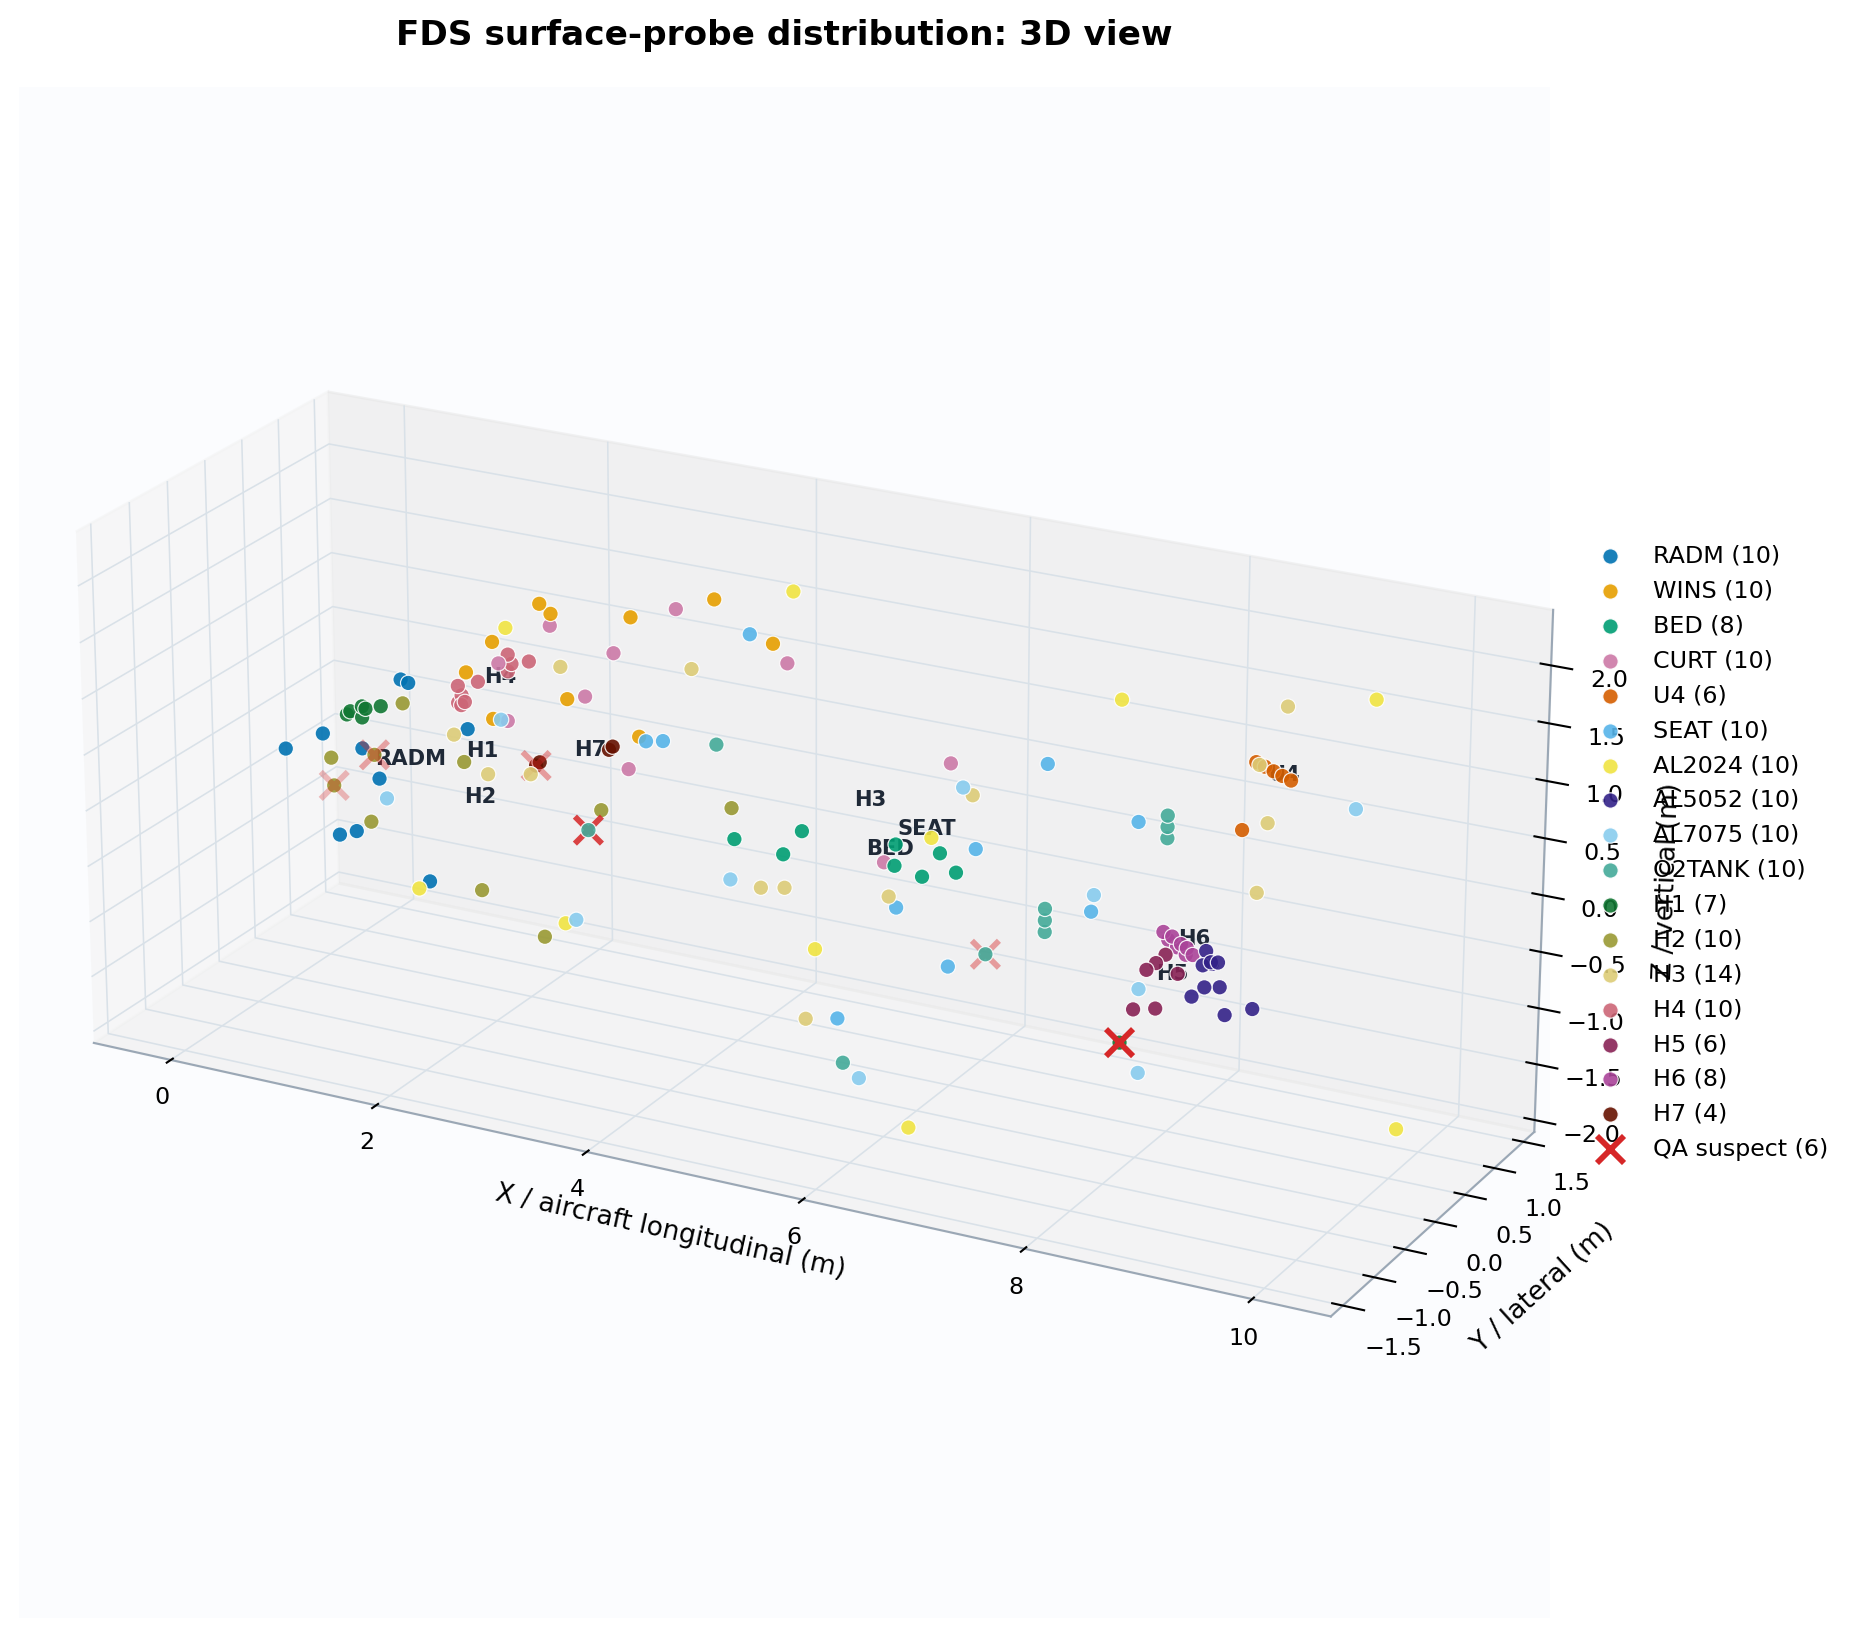
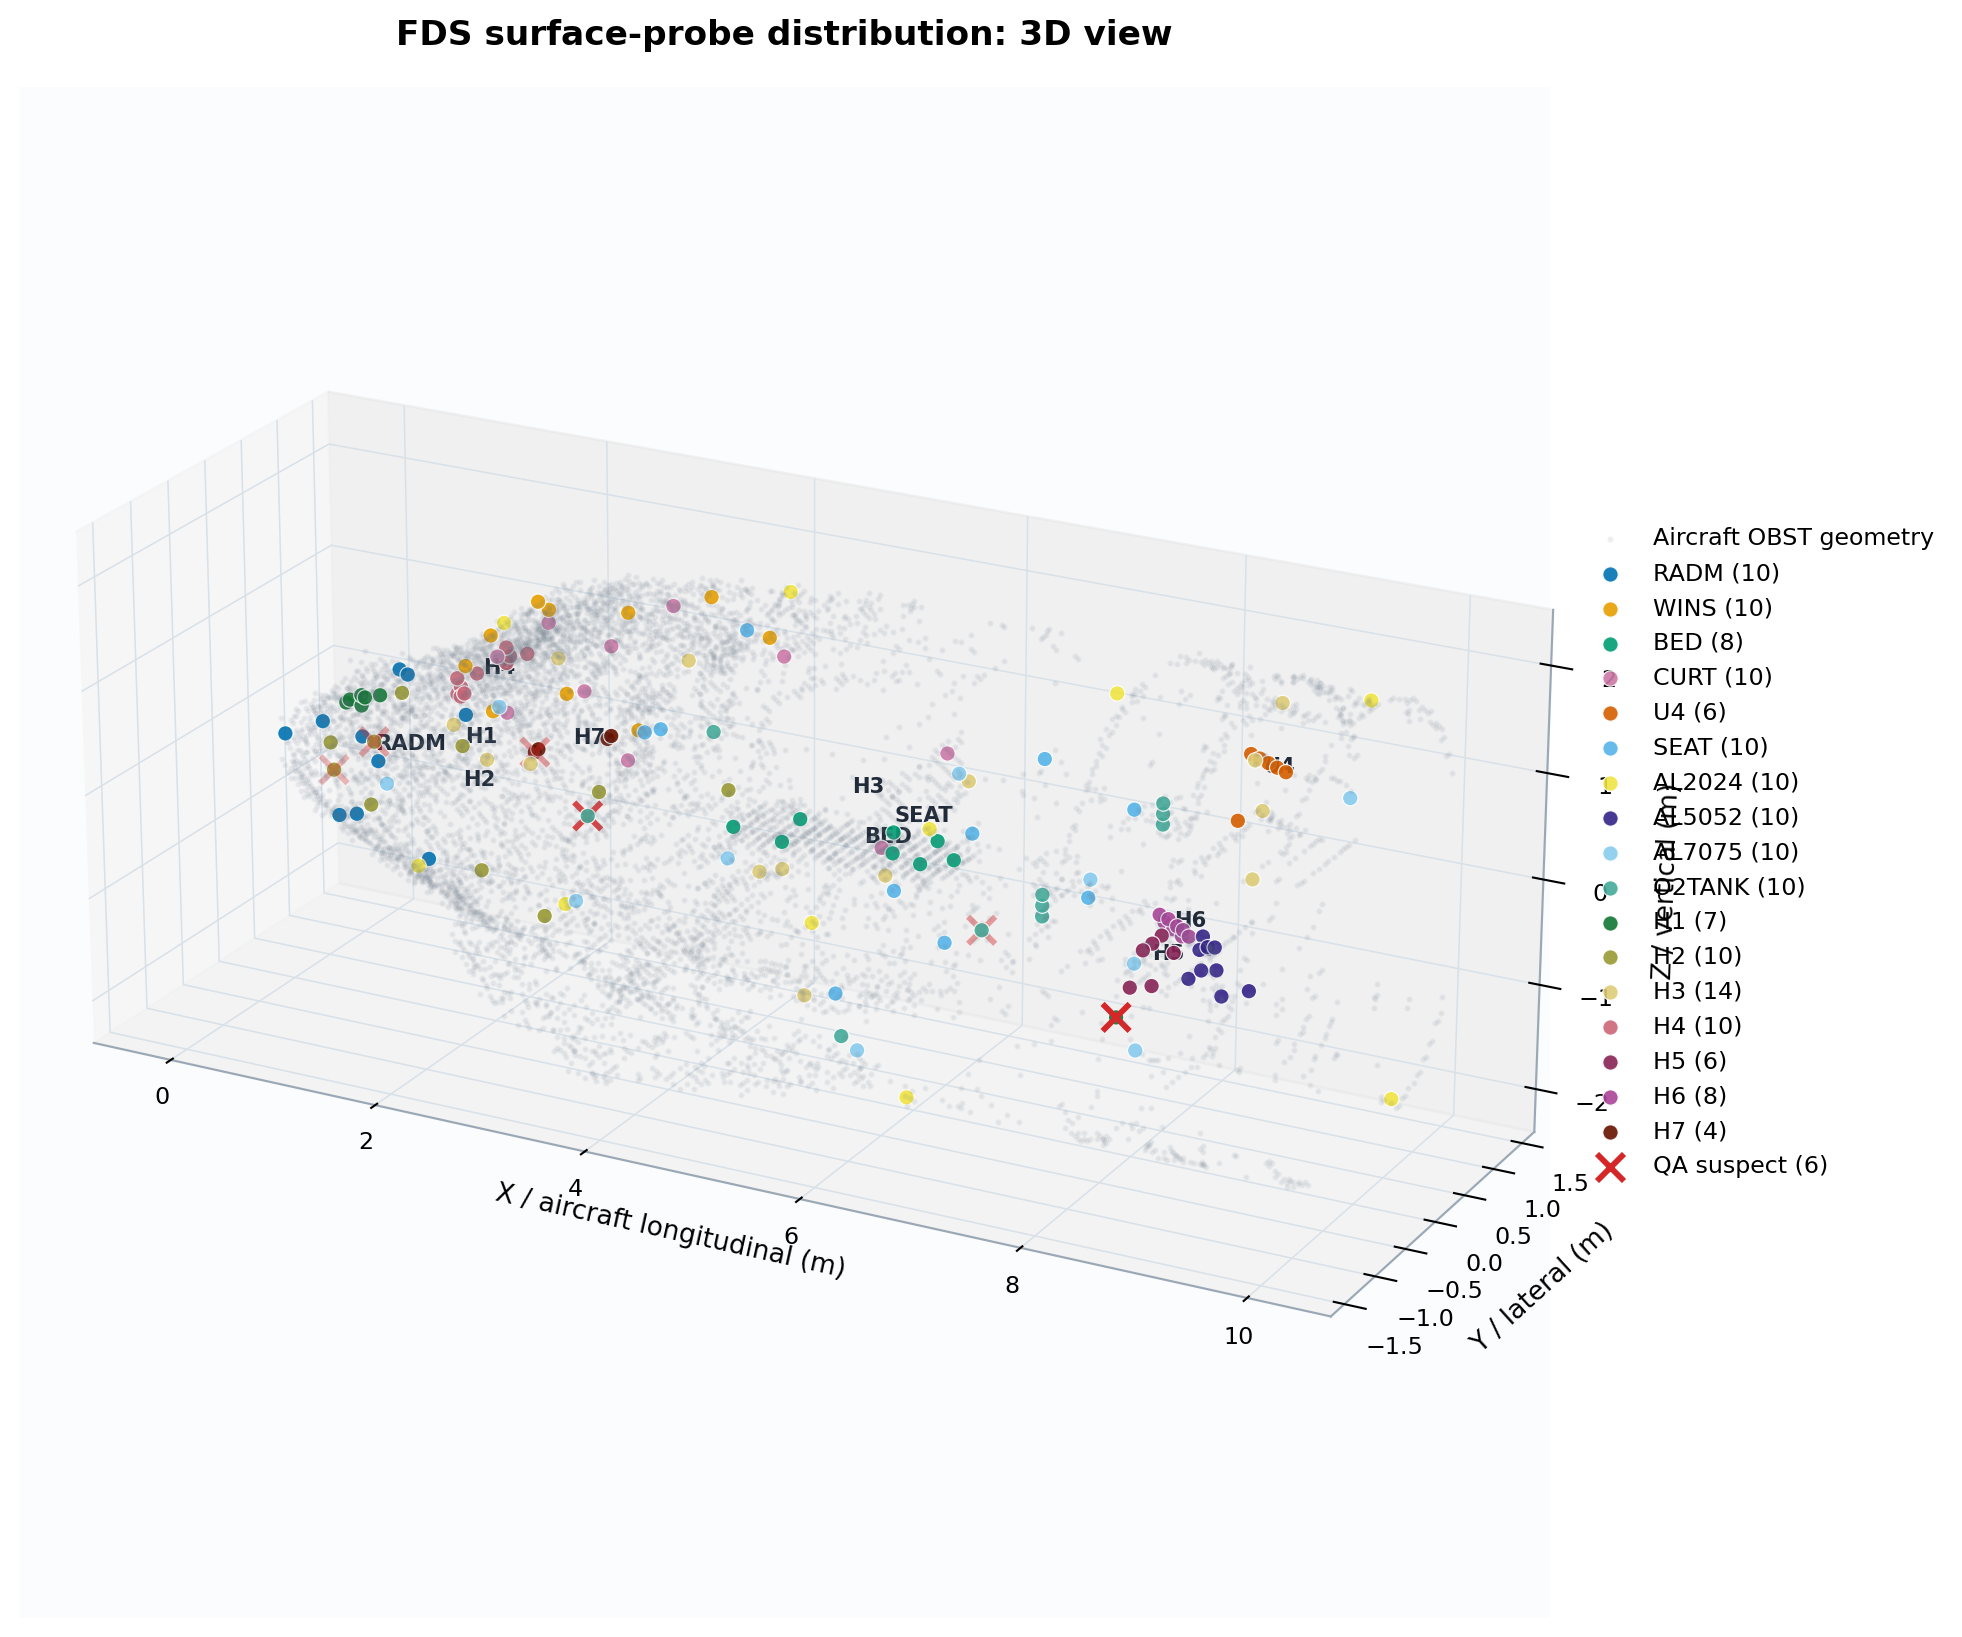
Overlay aircraft geometry on probe visualizations

diff --git a/src/validate_and_plot_probe_distribution.py b/src/validate_and_plot_probe_distribution.py
@@ -162,7 +162,24 @@ def close_xyz(a, b, tol=5.1e-4) -> bool:
     return max(abs(float(x) - float(y)) for x, y in zip(a, b)) <= tol
 
 
-def validate(case_dir: Path) -> tuple[dict, list[dict]]:
+def geometry_cloud(obstacles: list[dict], limit: int = 8000) -> list[list[float]]:
+    """Create a deterministic OBST-derived point cloud for spatial context."""
+    cloud = set()
+    for obstacle in obstacles:
+        x0, x1, y0, y1, z0, z1 = obstacle["xb"]
+        cloud.add((round((x0 + x1) / 2, 4), round((y0 + y1) / 2, 4), round((z0 + z1) / 2, 4)))
+        for x in (x0, x1):
+            for y in (y0, y1):
+                for z in (z0, z1):
+                    cloud.add((round(x, 4), round(y, 4), round(z, 4)))
+    points = sorted(cloud)
+    if len(points) > limit:
+        indices = np.linspace(0, len(points) - 1, limit, dtype=int)
+        points = [points[index] for index in indices]
+    return [list(point) for point in points]
+
+
+def validate(case_dir: Path) -> tuple[dict, list[dict], list[list[float]]]:
     registry_path = case_dir / "monitor_registry.json"
     flux_path = case_dir / "flux_faces.csv"
     fds_files = sorted(case_dir.glob("*.fds"))
@@ -270,7 +287,7 @@ def validate(case_dir: Path) -> tuple[dict, list[dict]]:
             "it is not a mathematical maximum over every surface cell."
         ),
     }
-    return validation, points
+    return validation, points, geometry_cloud(obstacles)
 
 
 def setup_plot_style():
@@ -283,10 +300,13 @@ def setup_plot_style():
     })
 
 
-def plot_3d(points: list[dict], out: Path):
+def plot_3d(points: list[dict], aircraft: list[list[float]], out: Path):
     setup_plot_style()
     fig = plt.figure(figsize=(15, 8.5), constrained_layout=True)
     ax = fig.add_subplot(111, projection="3d")
+    body = np.asarray(aircraft)
+    ax.scatter(body[:, 0], body[:, 1], body[:, 2], s=2.0, alpha=0.075,
+               color="#657484", depthshade=False, label="Aircraft OBST geometry")
     groups = list(dict.fromkeys(p["group"] for p in points))
     for idx, group in enumerate(groups):
         pts = np.array([p["xyz"] for p in points if p["group"] == group])
@@ -312,9 +332,13 @@ def plot_3d(points: list[dict], out: Path):
     plt.close(fig)
 
 
-def plot_2d(points: list[dict], out: Path):
+def plot_2d(points: list[dict], aircraft: list[list[float]], out: Path):
     setup_plot_style()
     fig, axes = plt.subplots(2, 1, figsize=(15, 9.5), constrained_layout=True)
+    body = np.asarray(aircraft)
+    axes[0].scatter(body[:, 0], body[:, 2], s=3.5, color="#657484", alpha=0.065,
+                    linewidth=0, label="Aircraft OBST geometry")
+    axes[1].scatter(body[:, 0], body[:, 1], s=3.5, color="#657484", alpha=0.065, linewidth=0)
     groups = list(dict.fromkeys(p["group"] for p in points))
     for idx, group in enumerate(groups):
         pts = np.array([p["xyz"] for p in points if p["group"] == group])
@@ -402,10 +426,10 @@ def write_markdown(validation: dict, path: Path):
     path.write_text("\n".join(lines) + "\n", encoding="utf-8")
 
 
-def write_inline_html(points: list[dict], validation: dict, path: Path):
+def write_inline_html(points: list[dict], aircraft: list[list[float]], validation: dict, path: Path):
     path.parent.mkdir(parents=True, exist_ok=True)
     groups = list(dict.fromkeys(p["group"] for p in points))
-    payload = {"points": points, "groups": groups, "meta": GROUP_META, "colors": COLORS}
+    payload = {"points": points, "aircraft": aircraft, "groups": groups, "meta": GROUP_META, "colors": COLORS}
     data = json.dumps(payload, ensure_ascii=False).replace("</", "<\\/")
     status = "PASS" if validation["all_positions_valid"] else "FAIL"
     html = f"""<div id="probe-vis" style="height:860px;width:100%;display:grid;grid-template-rows:auto 1fr;background:var(--color-background-primary,#fff);color:var(--color-text-primary,#111827);font-family:var(--font-sans,Arial,sans-serif)">
@@ -420,7 +444,10 @@ def write_inline_html(points: list[dict], validation: dict, path: Path):
 <script src="https://cdn.jsdelivr.net/npm/plotly.js-dist-min@2.35.2/plotly.min.js"></script>
 <script>
 const payload={data};
-const traces3=[], sideTraces=[], topTraces=[];
+const bodyX=payload.aircraft.map(d=>d[0]), bodyY=payload.aircraft.map(d=>d[1]), bodyZ=payload.aircraft.map(d=>d[2]);
+const traces3=[{{type:'scatter3d',mode:'markers',name:'Aircraft OBST geometry',x:bodyX,y:bodyY,z:bodyZ,hoverinfo:'skip',marker:{{size:2.2,color:'#657484',opacity:.16}}}}];
+const sideTraces=[{{type:'scattergl',mode:'markers',name:'Aircraft geometry',showlegend:false,x:bodyX,y:bodyZ,hoverinfo:'skip',marker:{{size:3,color:'#657484',opacity:.13}}}}];
+const topTraces=[{{type:'scattergl',mode:'markers',name:'Aircraft geometry',showlegend:false,x:bodyX,y:bodyY,hoverinfo:'skip',marker:{{size:3,color:'#657484',opacity:.13}}}}];
 payload.groups.forEach((g,i)=>{{
   const p=payload.points.filter(d=>d.group===g), c=payload.colors[i%payload.colors.length];
   const hover=p.map(d=>`<b>${{d.group}} · ${{d.component}}</b><br>${{d.material}}<br>XYZ: ${{d.xyz.map(v=>v.toFixed(4)).join(', ')}} m<br>IOR: ${{d.ior}}<br>Base flux: ${{d.base_flux_kw_m2.toFixed(1)}} kW/m²<extra></extra>`);
@@ -447,16 +474,16 @@ Plotly.newPlot('probe-top',topTraces,layout2('Top view (X-Y)','Y (m)'),{{respons
 def main():
     args = parse_args()
     args.reports_dir.mkdir(parents=True, exist_ok=True)
-    validation, points = validate(args.case_dir)
+    validation, points, aircraft = validate(args.case_dir)
     json_path = args.reports_dir / "probe_position_validation.json"
     md_path = args.reports_dir / "probe_position_validation.md"
     png3d = args.reports_dir / "probe_distribution_3d.png"
     png2d = args.reports_dir / "probe_distribution_2d.png"
     json_path.write_text(json.dumps(validation, ensure_ascii=False, indent=2), encoding="utf-8")
     write_markdown(validation, md_path)
-    plot_3d(points, png3d)
-    plot_2d(points, png2d)
-    write_inline_html(points, validation, args.inline_html)
+    plot_3d(points, aircraft, png3d)
+    plot_2d(points, aircraft, png2d)
+    write_inline_html(points, aircraft, validation, args.inline_html)
     print(json.dumps({
         "status": "PASS" if validation["all_positions_valid"] else "FAIL",
         "validated": f"{validation['validated_probe_count']}/{validation['temperature_probe_count']}",